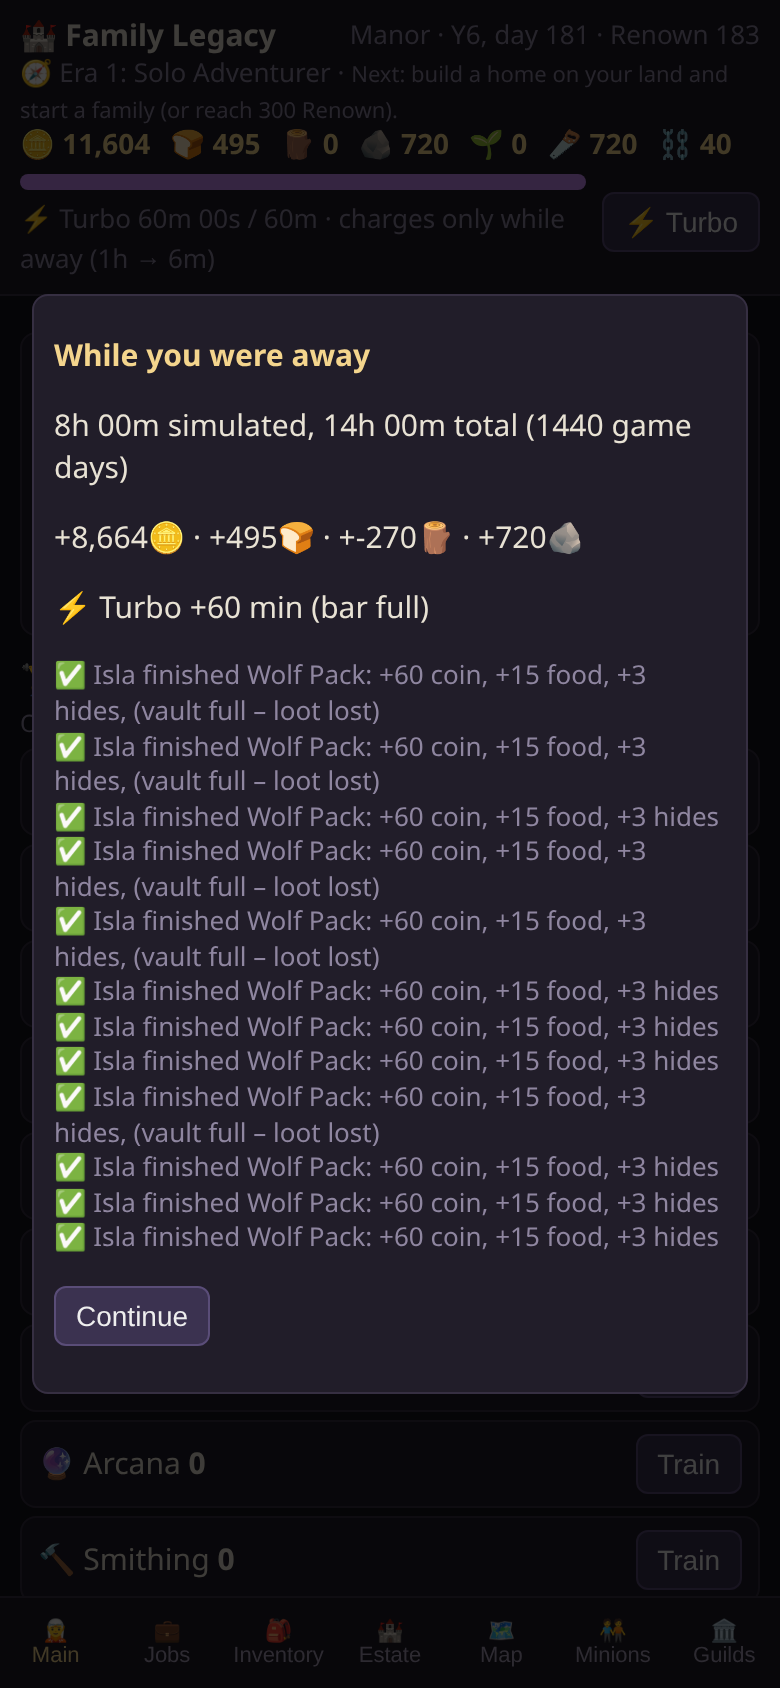
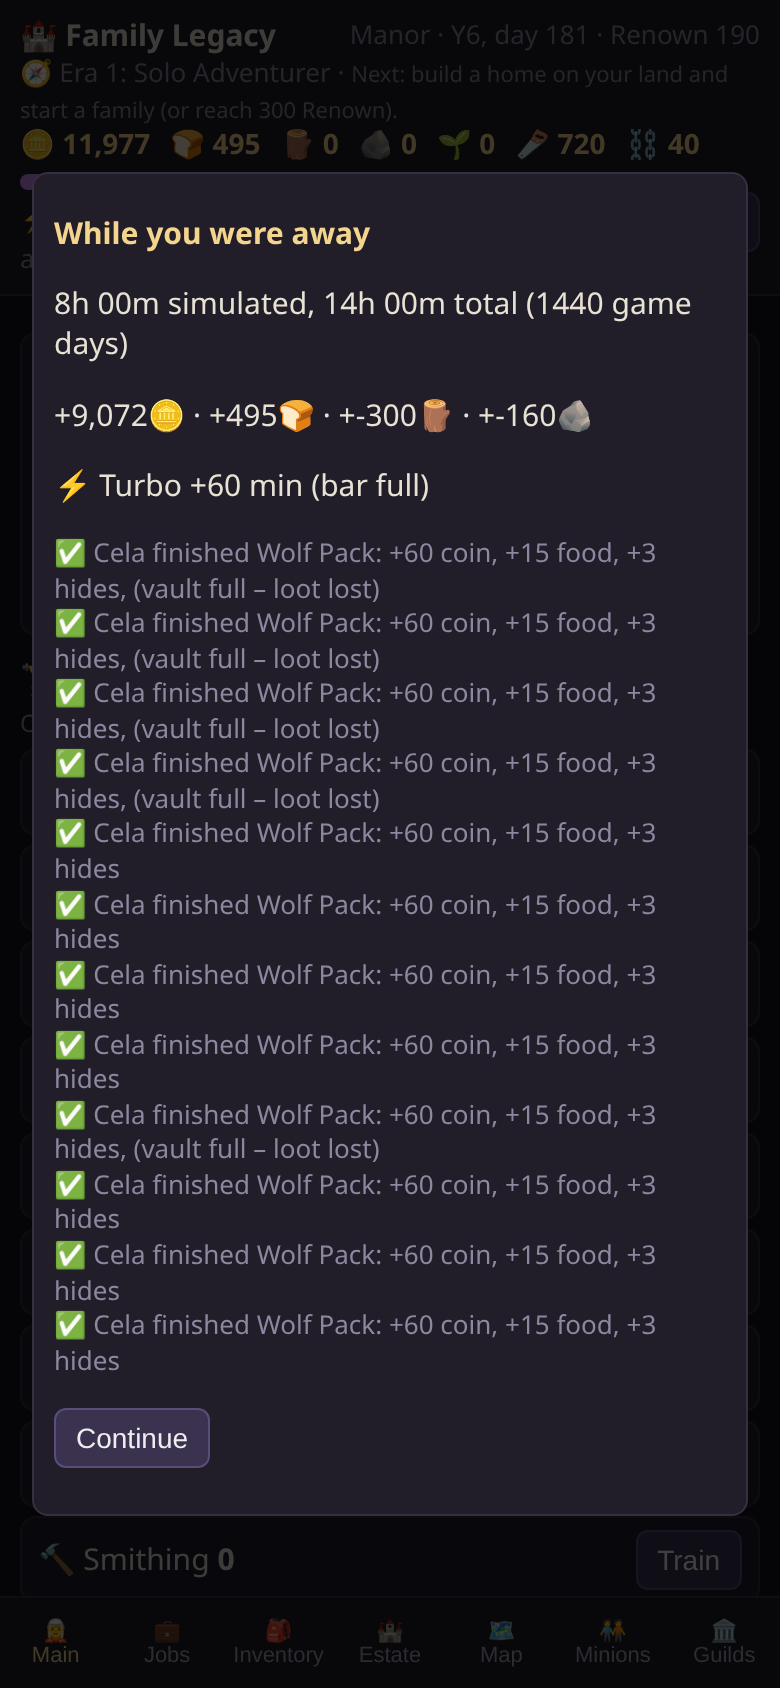
Update Family Legacy with resource tiers and new stations.
Replace the static game with the latest build, including resource tiers, the Mason's Table, and the Tanning Rack, and keep the existing Pages workflow.

Changed region(s): [[0.0308, 0.0616, 0.9846, 0.9242]]

diff --git a/js/main.js b/js/main.js
@@ -80,13 +80,13 @@ function family(){ const m=E.active(s); let h=`<h3>Members (${E.living(s).length
   <button class="b" data-a="propose" data-v="${su.id}" ${su.affinity>=100&&!m.spouse&&s.res.coin>=200&&E.ageY(m)>=18?'':'disabled'}>💍 Propose (200🪙)</button></div></div>`; }
  const dead=s.members.filter(x=>!x.alive); if(dead.length) h+=`<h3>🕯 Ancestors</h3>`+dead.map(x=>`<div class="muted">${x.name} (${E.ageY(x)}y)</div>`).join('');
  return h; }
-const RI={coin:'🪙',wood:'🪵',stone:'🪨',food:'🍞',herbs:'🌱',planks:'🪚',ingots:'⛓',potions:'🧪',ore:'⚫',copperore:'🟤',copper:'🟠',hides:'🟫',cloth:'🧵'};
+const RI={coin:'🪙',wood:'🪵',stone:'🪨',food:'🍞',herbs:'🌱',planks:'🪚',ingots:'⛓',potions:'🧪',ore:'⚫',copperore:'🟤',copper:'🟠',hides:'🟫',cloth:'🧵',blocks:'🧱',leather:'👞'};
 const costStr=c=>Object.entries(c).map(([k,v])=>`${fmt(v)} ${(RI[k]||k)}`).join(' ');
 function landShop(where){ return D.estate.lands.filter(l=>!s.land.includes(l.id)&&(!where||l.towns.includes(where))).map(l=>`<div class="card row" style="padding:6px 8px;margin:4px 0"><span>${l.icon} ${l.name} <span class="muted">+${l.slots} land slots${l.requires&&!s.land.includes(l.requires)?' · needs '+D.estate.lands.find(x=>x.id===l.requires).name:''}${l.desc?' · '+l.desc:''}</span></span><button class="b" data-a="land" data-v="${l.id}" ${E.canBuyLand(s,l.id)?'':'disabled'}>${costStr(l.cost)}</button></div>`).join(''); }
 function pieceRow(p,btn){ return `<div class="row" style="margin:3px 0"><span>${p.icon} ${p.name} <span class="muted">${p.desc||Object.entries(p.bonus).map(([k,v])=>k+': '+v).join(', ')}</span></span>${btn}</div>`; }
 function estate(){ let h=`<div class="card"><div class="row"><b>🗺 Land</b><span>${E.landUsed(s)}/${E.landSlots(s)} land slots used</span></div><div class="muted">${s.land.map(id=>D.estate.lands.find(l=>l.id===id).name).join(', ')}</div></div>${landShop()}`;
- h+=`<div class="card"><b>📦 Capacity</b><div class="muted">🍞 ${fmt(s.res.food)}/${fmt(E.foodCap(s))} food · materials cap ${fmt(E.matCap(s))} each · 🪵→🪵 planks ${fmt(s.res.planks||0)} · ⚫ iron ore ${fmt(s.res.ore||0)} · ⛓ iron ingots ${fmt(s.res.ingots||0)} · 🟤 copper ore ${fmt(s.res.copperore||0)} · 🟠 copper ${fmt(s.res.copper||0)} · 🧪 potions ${fmt(s.res.potions||0)}</div>
- <div class="muted">Family eats ${E.living(s).length}🍞/day · followers eat ${E.minionFood(s)}🍞/day · beds ${E.living(s).length}/${E.bedrooms(s)} · follower bunks ${E.housingUsed(s,'bunk')}/${E.housingCap(s,'bunk')}</div></div>`;
+ h+=`<div class="card"><b>📦 Capacity</b><div class="muted">🍞 ${fmt(s.res.food)}/${fmt(E.foodCap(s))} food · materials cap ${fmt(E.matCap(s))} each</div>
+ <div class="muted">${Object.entries(D.estate.resourceTiers).map(([n,t])=>`<b>T${n} ${t.name}:</b> ${t.res.length?t.res.map(k=>`${RI[k]||''}${k} ${fmt(s.res[k]||0)}`).join(' · '):t.planned.join(', ')}`).join('<br>')}</div><div class="muted">Family eats ${E.living(s).length}🍞/day · followers eat ${E.minionFood(s)}🍞/day · beds ${E.living(s).length}/${E.bedrooms(s)} · follower bunks ${E.housingUsed(s,'bunk')}/${E.housingCap(s,'bunk')}</div></div>`;
  const syn=E.allSynergies(s); h+=`<h3>✨ Active synergies (${syn.length})</h3>`+(syn.length?syn.map(y=>`<div>${y.icon} <b>${y.name}</b> <span class="muted">${y.desc} · in ${E.structDef(s.structures.find(x=>x.uid===y.where).type).name}</span></div>`).join(''):'<div class="muted">Place related pieces in the same building: '+D.estate.synergies.map(y=>y.pieces.map(p=>E.pieceDef(p).name).join(' + ')).join(' · ')+'</div>');
  h+=`<h3>🛖 Buildings & stations</h3>`;
  s.structures.forEach((st,k)=>{ const d=E.structDef(st.type), nx=D.estate.structures.find(x=>x.upgradeFrom===st.type), ui=E.upgradeIssue(s,st.uid); const syn=E.activeSynergies(st);

diff --git a/js/engine.js b/js/engine.js
@@ -136,10 +136,15 @@ export function placePiece(s,uid,pid,fromStore=false){ if(placeIssue(s,uid,pid,f
   if(fromStore) s.pieceStore.splice(s.pieceStore.indexOf(pid),1); else pay(s,p.cost); st.pieces.push(pid);
   const before=new Set(); log(s,`🪑 Placed ${p.name} in the ${structDef(st.type).name}.`); for(const y of activeSynergies(st)) if(y.pieces.includes(pid)) log(s,`✨ Synergy: ${y.name} (${y.desc}).`); return true; }
 export function removePiece(s,uid,pid){ const st=s.structures.find(x=>x.uid===uid); if(!st||!st.pieces.includes(pid)) return false; st.pieces.splice(st.pieces.indexOf(pid),1); s.pieceStore.push(pid); return true; }
-function processDay(s,mul=1){ for(const st of s.structures||[]){ const syn=activeSynergies(st); for(const p of st.pieces.map(id=>scaledPiece(st,id))) for(const pr of (p&&p.bonus.processes)||[]){
+export function operatorLvl(s,skill){ if(!skill) return 0; const sp=ES().skillProcess; let b=0; for(const m of living(s)) if(isAdult(m)||ageY(m)>=12) b=Math.max(b,m.skills[skill]?.lvl||0);
+  for(const mi of s.minions||[]) if(mi.job==='craft') b=Math.max(b,(mtype(mi.type).apt.craft||1)*sp.minionLvlPerApt); return b; }
+export const skillSpeed=(s,p)=>1+ES().skillProcess.speedPerLvl*operatorLvl(s,p&&p.skill);
+export const skillYield=(s,p)=>1+ES().skillProcess.yieldPerLvl*operatorLvl(s,p&&p.skill);
+export const resTier=k=>+(Object.entries(ES().resourceTiers).find(([,t])=>t.res.includes(k))||[0])[0];
+function processDay(s,mul=1){ for(const st of s.structures||[]){ const syn=activeSynergies(st); for(const p of st.pieces.map(id=>scaledPiece(st,id))) for(const pr0 of (p&&p.bonus.processes)||[]){ const pr={...pr0,rate:pr0.rate*skillSpeed(s,p)}; const yl=skillYield(s,p);
   let n=pr.rate*mul*syn.reduce((a,y)=>a*((y.bonus.processMult||{})[pr.out]||1),1); for(const[k,v]of Object.entries(pr.in)) n=Math.min(n,(s.res[k]||0)/v); if(n<=0) continue;
-  for(const[k,v]of Object.entries(pr.in)) s.res[k]-=v*n; s.res[pr.out]=(s.res[pr.out]||0)+n; } } }
-export const processRates=(s,st,pid)=>((scaledPiece(st,pid).bonus.processes)||[]).map(pr=>({out:pr.out,rate:Math.round(pr.rate*activeSynergies(st).reduce((a,y)=>a*((y.bonus.processMult||{})[pr.out]||1),1)*100)/100}));
+  for(const[k,v]of Object.entries(pr.in)) s.res[k]-=v*n; s.res[pr.out]=(s.res[pr.out]||0)+n*yl; } } }
+export const processRates=(s,st,pid)=>((scaledPiece(st,pid).bonus.processes)||[]).map(pr=>({out:pr.out,rate:Math.round(pr.rate*skillSpeed(s,pieceDef(pid))*skillYield(s,pieceDef(pid))*activeSynergies(st).reduce((a,y)=>a*((y.bonus.processMult||{})[pr.out]||1),1)*100)/100}));
 export const processRate=(s,st,pid)=>{ const r=processRates(s,st,pid); return r.length?r[0].rate:0; };
 export function jobCap(s,job){ if(job==='idle'||job==='guard') return Infinity; let c=placed(s).reduce((a,p)=>a+((p.bonus.jobs||{})[job]||0),0);
   if(job==='farm') c+=bl(s,'farm')*2+bl(s,'garden'); if(job==='gather') c+=bl(s,'lumber')*2; if(job==='tutor') c+=bl(s,'library'); return c; }

diff --git a/README.md b/README.md
@@ -16,3 +16,8 @@ The header shows your era (Solo Adventurer → Established Family → Ruling Pow
 - **Building level:** Shack/Bunkhouse Lv1, Cabin Lv2, House/Hall Lv3: +5% per level above 1 to every piece inside.
 - **Furniture tiers:** Crude ×1 → Sturdy ×1.15 (planks+copper) → Fine ×1.3 → Masterwork ×1.5 (planks+ingots+coin). Pieces keep their tier in storage.
 - **Unlockable furniture:** Feather Bed (estate tier Farmstead), Cold Cellar (quest), Steel Anvil (Crafters rank 2), Alchemist's Bench (Magic rank 2), Ore Cart.
+
+## Resource tiers
+- **T1 Raw:** wood, stone, iron ore, copper ore, herbs, hides. **T2 Processed:** planks (Saw Table), blocks (new Mason's Table), iron ingots + copper (Forge), potions, leather (new Tanning Rack), cloth. **T3 Refined:** reserved (fine lumber, dressed stone, steel).
+- Stations process automatically, and the best operator's skill scales them (each skill level adds +3% speed and +1% yield). The operator is the best family member aged 12+ in the station's skill (Carpentry for the Saw Table, Masonry for the Mason's Table, Smithing for the Forge, Alchemy, Tailoring), or a Crafting minion (aptitude ×10 levels).
+- Costs climb by tier: Shack/Bunkhouse use wood+stone, Cabin planks+blocks, House/Hall planks+blocks+ingots. Furniture: Sturdy uses planks, Fine and Masterwork blocks+ingots.
